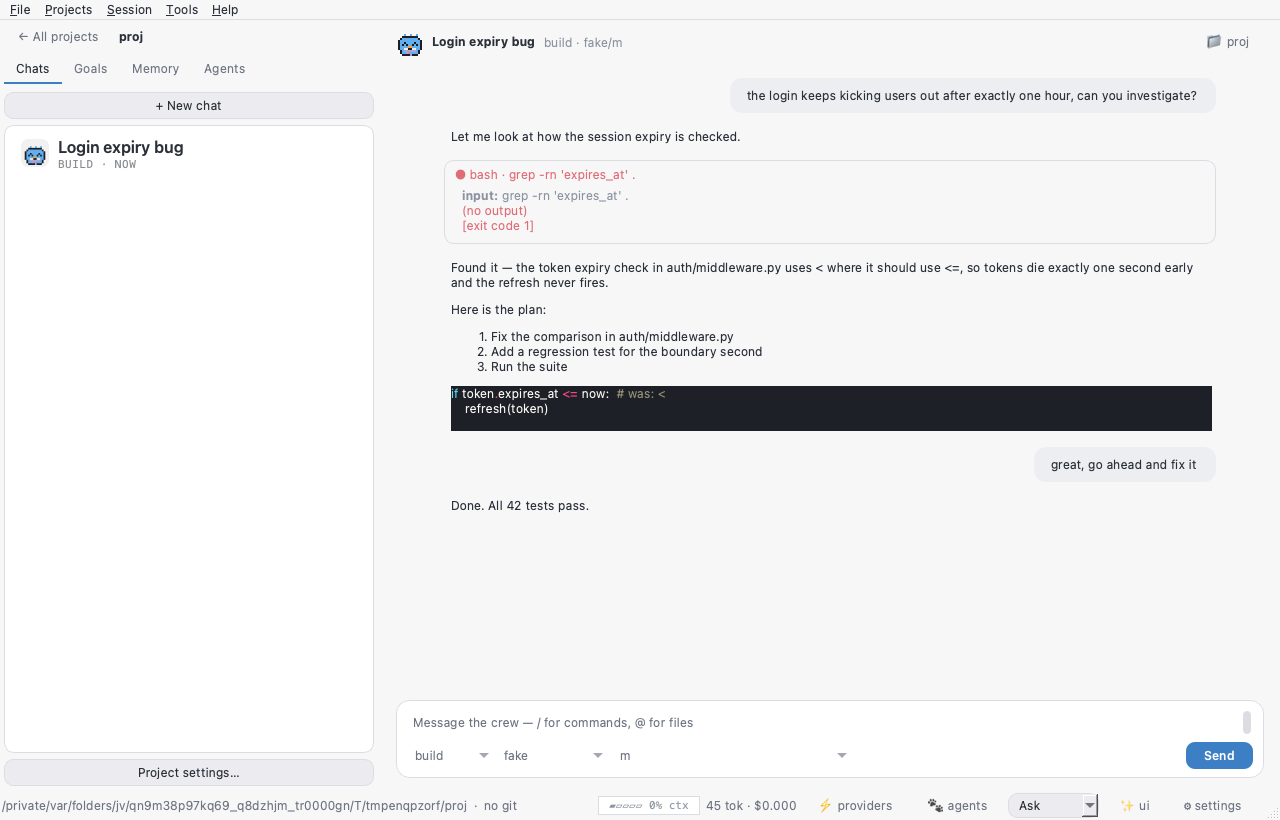
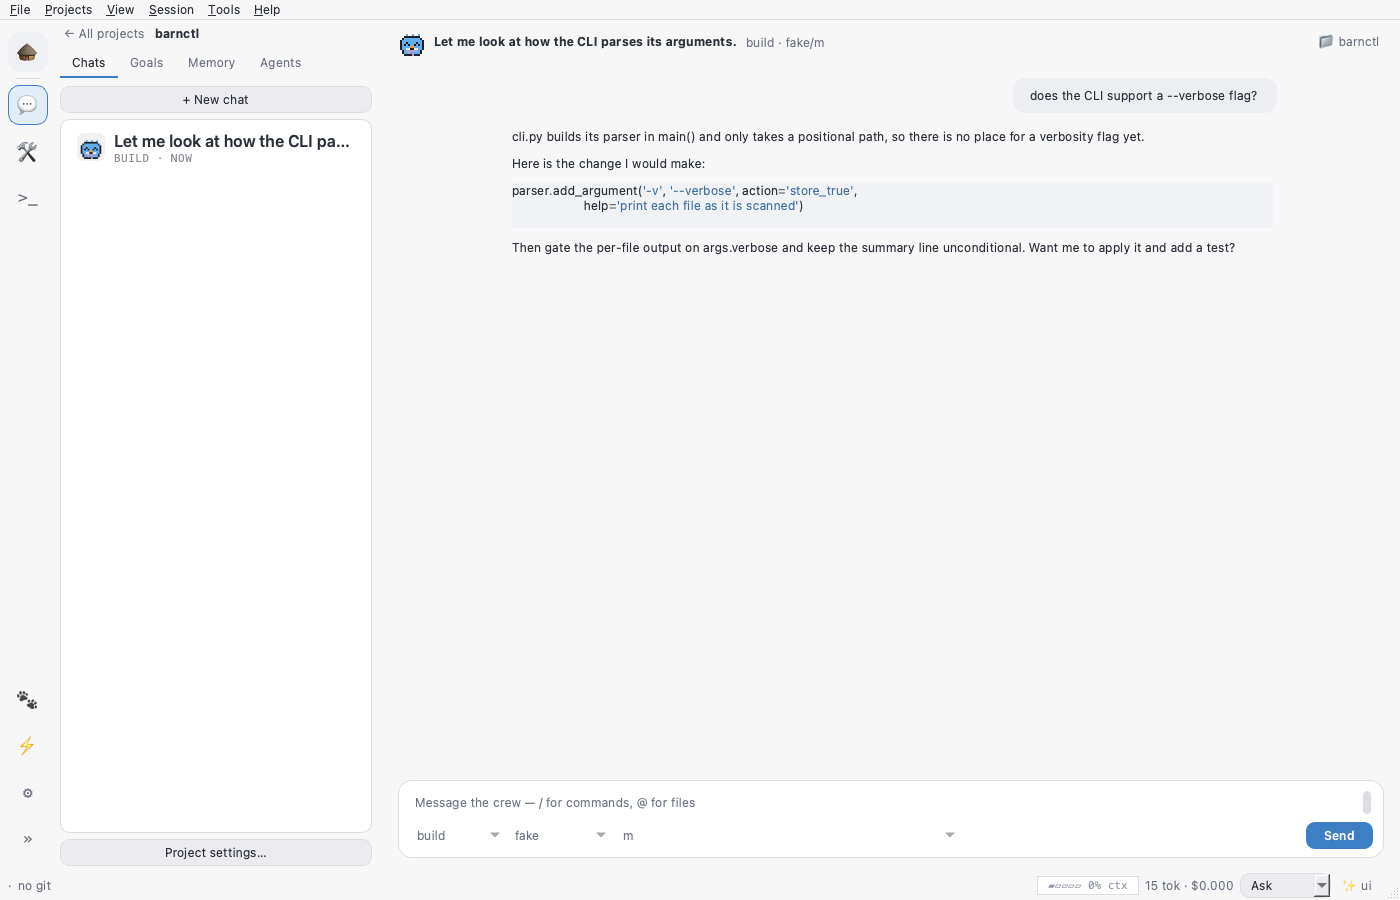
Refresh the README screenshots and describe what the app now does
Every screenshot predated the nav rail, so the README showed a UI that no
longer exists. All five are recaptured from the real app driven offscreen,
including a tiled terminal view and the expanded rail.

The text was out of date in ways that would mislead: providers and agents
moved off the status bar onto the rail, the terminal manager, saved hosts
and the agent ssh tool went undocumented, and the provider count said 17
with Moonshot and Claude Code missing from the table (18 API providers plus
the Claude Code runtime).

Two defects found while capturing:

- Backend terminals seeded their view from the hub snapshot twice, so
  Claude Code output appeared duplicated, and the plain log view printed
  ANSI escapes literally instead of stripping them.
- Fenced code blocks hardcoded a dark background and monokai, which is
  unreadable on the light theme; the style now follows the theme.

Claude-Session: https://claude.ai/code/session_017h2cpq5ZvT6h8wpfGKA6kx

diff --git a/bytebarn/app/terminal_panel.py b/bytebarn/app/terminal_panel.py
@@ -2,6 +2,7 @@
 
 from __future__ import annotations
 
+import re
 import uuid
 from pathlib import Path
 
@@ -402,6 +403,15 @@ class TerminalView(QWidget):
             self._pty.write(text.replace("\n", "\r"))
 
 
+# CSI/OSC escapes: backend tees carry color and cursor control that a plain
+# text view would otherwise print literally as "[32m✓[0m"
+_ANSI = re.compile(r"\x1b\][^\x07\x1b]*(?:\x07|\x1b\\)|\x1b[@-Z\\-_]|\x1b\[[0-?]*[ -/]*[@-~]")
+
+
+def strip_ansi(text: str) -> str:
+    return _ANSI.sub("", text)
+
+
 class LogTerminalView(QPlainTextEdit):
     """Read-only plain log for backend tees (Claude Code stream-json etc.)."""
 
@@ -431,12 +441,12 @@ class LogTerminalView(QPlainTextEdit):
             >= self.verticalScrollBar().maximum() - 4
         )
         self.moveCursor(QTextCursor.End)
-        self.insertPlainText(text)
+        self.insertPlainText(strip_ansi(text))
         if at_end:
             self.moveCursor(QTextCursor.End)
 
     def set_text(self, text: str) -> None:
-        self.setPlainText(text or "")
+        self.setPlainText(strip_ansi(text or ""))
         self.moveCursor(QTextCursor.End)
 
     def feed(self, text: str) -> None:
@@ -619,13 +629,11 @@ class TerminalPanel(QWidget):
     def handle_event(self, event) -> None:
         name = getattr(event, "name", "")
         if name == "terminal.opened":
+            # _ensure_backend_item already seeds a new view from the hub
+            # snapshot; setting it again here doubled the output
             self._ensure_backend_item(
                 event.terminal_id, event.title or event.terminal_id,
                 event.kind, "running")
-            if event.kind != "user" and self.engine is not None:
-                view = self._views.get(event.terminal_id)
-                if view is not None:
-                    view.set_text(self.engine.terminals.snapshot(event.terminal_id))
             self._select_id(event.terminal_id)
         elif name == "terminal.chunk":
             view = self._views.get(event.terminal_id)

diff --git a/bytebarn/app/markdown.py b/bytebarn/app/markdown.py
@@ -10,7 +10,21 @@ from pygments.formatters import HtmlFormatter
 from pygments.lexers import TextLexer, get_lexer_by_name
 from pygments.util import ClassNotFound
 
-_formatter = HtmlFormatter(nowrap=True, noclasses=True, style="monokai")
+# One highlighter per look: monokai's palette is tuned for dark surfaces and
+# turns near-invisible on paper white, so light themes get a light style and
+# a light block background to match.
+_FORMATTERS = {
+    "dark": (HtmlFormatter(nowrap=True, noclasses=True, style="monokai"),
+             "#1d2027", "#f8f8f2"),
+    "light": (HtmlFormatter(nowrap=True, noclasses=True, style="friendly"),
+              "#f1f2f5", "#2a2f38"),
+}
+
+
+def _code_style() -> tuple[HtmlFormatter, str, str]:
+    from . import theme
+
+    return _FORMATTERS["light" if theme.current_mode() == "light" else "dark"]
 
 
 def _highlight_code(code: str, lang: str, _attrs) -> str:
@@ -18,13 +32,14 @@ def _highlight_code(code: str, lang: str, _attrs) -> str:
         lexer = get_lexer_by_name(lang) if lang else TextLexer()
     except ClassNotFound:
         lexer = TextLexer()
-    highlighted = highlight(code, lexer, _formatter)
-    # explicit monokai fg via <font> (Qt rich text ignores css color on <pre>):
-    # plain tokens otherwise inherit the theme text color, which is
-    # near-black on light themes -> unreadable on the dark bg
+    formatter, background, foreground = _code_style()
+    highlighted = highlight(code, lexer, formatter)
+    # explicit fg via <font> (Qt rich text ignores css color on <pre>): plain
+    # tokens otherwise inherit the theme text color, which fights the block
     return (
-        '<pre style="background-color:#1d2027; padding:10px; border-radius:8px;">'
-        f'<font color="#f8f8f2"><code>{highlighted}</code></font></pre>'
+        f'<pre style="background-color:{background}; padding:10px;'
+        ' border-radius:8px;">'
+        f'<font color="{foreground}"><code>{highlighted}</code></font></pre>'
     )
 
 

diff --git a/tests/app/test_terminal_splits.py b/tests/app/test_terminal_splits.py
@@ -163,6 +163,31 @@ async def test_theme_applies_and_default_from_config(qapp, tmp_path):
         await engine.stop()
 
 
+async def test_backend_output_is_seeded_once_and_ansi_stripped(qapp, tmp_path):
+    """Regression: the snapshot was applied twice (doubling the log), and the
+    plain log view printed escape codes literally."""
+    from bytebarn.engine.events import TerminalOpened
+
+    from bytebarn.app.terminal_panel import TerminalPanel
+
+    engine = await _engine(tmp_path)
+    try:
+        panel = TerminalPanel(engine)
+        tid = "cc:s1"
+        engine.terminals.open(kind="claude-code", title="build",
+                              session_id="s1", terminal_id=tid)
+        engine.terminals.append(tid, "\x1b[32m✓\x1b[0m compiled 42 modules\n")
+        panel.handle_event(TerminalOpened(
+            terminal_id=tid, kind="claude-code", title="build", session_id="s1"))
+
+        text = panel._views[tid].toPlainText()
+        assert text.count("compiled 42 modules") == 1, text
+        assert "\x1b" not in text and "[32m" not in text
+        assert "✓ compiled 42 modules" in text
+    finally:
+        await engine.stop()
+
+
 def test_drop_zone_geometry():
     from PySide6.QtCore import QPoint
 

diff --git a/tests/app/test_ui_smoke.py b/tests/app/test_ui_smoke.py
@@ -2572,3 +2572,19 @@ async def test_a_worktree_cleanup_failure_reaches_the_status_bar(qapp, tmp_path)
         assert await engine.store.get_session(session.id) is None
     finally:
         await engine.stop()
+
+
+def test_code_blocks_follow_the_theme(qapp):
+    """monokai on paper white is unreadable — light themes get a light style."""
+    from bytebarn.app import theme
+    from bytebarn.app.markdown import render_markdown
+
+    theme.apply_theme(qapp, "dark")
+    dark = render_markdown("```python\nx = 1\n```")
+    assert "#1d2027" in dark
+
+    theme.apply_theme(qapp, "light")
+    light = render_markdown("```python\nx = 1\n```")
+    assert "#1d2027" not in light and "#f1f2f5" in light
+
+    theme.apply_theme(qapp, "dark")  # leave the app as we found it

diff --git a/README.md b/README.md
@@ -4,21 +4,24 @@
 [![PyPI](https://img.shields.io/pypi/v/bytebarn)](https://pypi.org/project/bytebarn/)
 [![License: MIT](https://img.shields.io/badge/license-MIT-green)](LICENSE)
 
-A local desktop harness for AI coding agents. Open a project, type a prompt
-or a `/goal`, and a barn crew of pixel-art farm animals gets to work on your
-codebase.
+A local desktop harness for AI coding agents. Pick a project, then move
+between its chats, its goal runs, and a real terminal from one window —
+with a barn crew of pixel-art farm animals doing the work.
 
-![The barn crew, ready for a goal](docs/media/welcome-dark.png)
+![A session: prompt, answer, syntax-highlighted code](docs/media/session-dark.png)
 
 The app itself is fully local — no cloud backend, no accounts, no
-telemetry. Connect it to any of 17 LLM providers (Anthropic, OpenAI, Groq,
-Bedrock, OpenRouter, Z.ai, and more), or skip the cloud entirely and run models
-on your own machine via Ollama or LM Studio.
-
-![A session: chat, tool calls, live diffing](docs/media/session-dark.png)
+telemetry. Connect it to any of 18 LLM providers (Anthropic, OpenAI, Groq,
+Bedrock, OpenRouter, Z.ai, Moonshot, and more) or your Claude Code
+subscription, or skip the cloud entirely and run models on your own machine
+via Ollama or LM Studio.
 
 ## What's in the barn
 
+- **One window, four views.** A nav rail switches between **Projects**,
+  **Chat**, **Code**, and **Terminal** (⌘1–⌘4); the `»` toggle slides it
+  out to label every icon. Each project keeps its own chats, goal runs,
+  memory bundle, and agent defaults.
 - **Chat + agents** — markdown/code transcript, streaming, collapsible tool
   and thinking cards, edit-and-re-run any prompt, regenerate, per-message
   copy, in-conversation search (⌘F), full-text search across all chats,
@@ -28,6 +31,16 @@ on your own machine via Ollama or LM Studio.
   subagent gets a git worktree so parallel edits do not collide; changes
   merge back into your tree). Queue goals and walk away; routines re-run a
   prompt on a schedule.
+- **A terminal that is actually a terminal** — a cell-grid VT emulator
+  (colors, cursor addressing, alt screen, scrollback, job control), tiled
+  into as many panes as you like by dragging a terminal onto a pane edge.
+  Rename any terminal, give each one its own color theme from ten built-ins,
+  and watch Claude Code runs stream into their own pane.
+- **Saved hosts** — a connection book (name, host, user, port, SSH key *or*
+  password) that opens `ssh` in a pane on double-click. Passwords live in
+  the 0600 auth store, never in config and never on a command line. Agents
+  can run commands on those hosts through the `ssh` tool — confirmed per
+  call, denied outright in Safe and Plan modes.
 - **Harness tools** — web search + research agent, MCP servers (12 one-click
   recipes + custom), skills (catalog + `skill` tool + `/skill <name>`),
   per-project persistent memory, preview panel for HTML/dev servers, inline
@@ -37,6 +50,17 @@ on your own machine via Ollama or LM Studio.
   seatbelt sandbox for Full-auto bash, config hooks, `/diff` `/review`
   `/context` `/rewind`, run review with per-file revert, cost tracking,
   automatic model fallback, extended-thinking control per agent.
+- **Three looks** — the classic dark theme, a warm "Night Workshop", and a
+  paper-white light theme (✨ ui in the status bar, or Settings).
+
+![Terminal view: tiled panes, per-pane themes, saved hosts](docs/media/terminal-panes.png)
+
+<details>
+<summary>Same session in the light theme</summary>
+
+![Light theme](docs/media/session-light.png)
+
+</details>
 
 ## Quick start
 
@@ -56,9 +80,11 @@ users can also grab `ByteBarn.app` from the
 [latest release](https://github.com/hhamaker/bytebarn/releases) — drag to
 Applications, open, done.
 
-On first launch, connect a provider (**⚡ providers** in the status bar —
-paste an API key or log in via web) and start typing. Ollama and LM Studio
-work with no key at all.
+On first launch, connect a provider (**⚡ Providers** at the foot of the nav
+rail — paste an API key or log in via web) and start typing. Ollama and LM
+Studio work with no key at all.
+
+![The nav rail, expanded](docs/media/nav-rail.png)
 
 <details>
 <summary>Running from source / contributing</summary>
@@ -94,6 +120,8 @@ QT_QPA_PLATFORM=offscreen .venv/bin/pytest
   similar work well; tiny chat-only models will disappoint.
 
 ## The signature flow
+
+![The barn crew, waiting for a prompt](docs/media/welcome-dark.png)
 
 Type `/goal add a --verbose flag to the CLI and test it` in the prompt bar:
 
@@ -139,7 +167,7 @@ tolerated; in-app edits patch files key-by-key, preserving your comments.
 Any OpenAI-compatible endpoint works (LM Studio, Ollama, OpenRouter, Groq)
 via `base_url` + `"api": "openai"`.
 
-### Provider connections (⚡ providers in the status bar)
+### Provider connections (⚡ Providers on the nav rail)
 
 Pick a provider, paste a key or **🌐 log in via web**, hit *Test connection*:
 
@@ -154,6 +182,7 @@ Pick a provider, paste a key or **🌐 log in via web**, hit *Test connection*:
 | Mistral | API key / `MISTRAL_API_KEY` | |
 | DeepSeek | API key / `DEEPSEEK_API_KEY` | |
 | Z.ai (GLM) | API key / `ZAI_API_KEY` | Zhipu GLM models; glm-4.7-flash is free |
+| Moonshot AI (Kimi) | API key / `MOONSHOT_API_KEY` | Kimi K2 models |
 | Together AI | API key / `TOGETHER_API_KEY` | |
 | Cerebras | API key / `CEREBRAS_API_KEY` | |
 | AWS Bedrock | Access Key ID + Secret Access Key (or AWS chain) | region field / `AWS_REGION`; boto3 optional for live lists |
@@ -162,6 +191,7 @@ Pick a provider, paste a key or **🌐 log in via web**, hit *Test connection*:
 | Ollama | none | local, `http://localhost:11434/v1` |
 | LM Studio | none | local, `http://localhost:1234/v1` |
 | GitHub Copilot | web login | GitHub device code — needs a Copilot subscription |
+| Claude Code | your local `claude` CLI | runtime backend, not an API key — runs through your existing Claude Code auth; output streams into the Terminal view |
 
 Web login flavors: xAI and GitHub Copilot show a short code to confirm in
 the browser (auto-copied to your clipboard; the dialog closes itself on
@@ -203,7 +233,7 @@ The orchestrator sees every visible subagent's description in its task tool
 and picks accordingly. A file named after a built-in (`build`, `plan`, `orchestrator`,
 `general`, `explore`, `chat`, `research`) merges over it.
 
-Prefer a GUI? **🐾 agents** in the status bar opens the agent editor with a
+Prefer a GUI? **🐾 Agents** on the nav rail opens the agent editor with a
 live sprite preview per agent. Sessions are managed from the sidebar:
 right-click one to **close** (archive) or **delete** it, subagents and all.
 
@@ -217,6 +247,37 @@ Skills are markdown under `~/.bytebarn/skills/` or
 `<project>/.bytebarn/skills/` (optional YAML `description` frontmatter).
 Agents see a skill catalog in the system prompt and load full guidance via
 the `skill` tool when a skill matches the task.
+
+## Terminals and hosts
+
+The **Terminal** view (⌘4) is a tiling terminal manager. Drag a terminal
+from the list onto a pane: the edges split in that direction, the middle
+swaps what that pane shows. **Split →** / **Split ↓** open a new shell in a
+fresh pane, and every pane header carries a 🎨 theme menu and a ✕ that
+closes the tile without killing the shell. Rename a terminal by
+double-clicking it. Themes are per terminal — Dark+, Night Barn, Solarized
+Dark/Light, Dracula, Nord, Gruvbox Dark, Monokai, One Dark, Tokyo Night —
+and "Set current as default" saves one under `terminal.theme`.
+
+**+ Host** saves a connection: name, host, user, port, and either an SSH key
+or a password. Double-click to open it in a pane. Hosts live in
+`~/.bytebarn/hosts.json`; passwords go to `~/.bytebarn/auth.json` (0600)
+beside provider keys — never in `hosts.json`, never on an ssh command line.
+Host keys are checked normally; a per-host "Trust new host key on first
+connect" checkbox opts into `accept-new` for that host, and a key that
+*changes* is always refused.
+
+Agents reach the same hosts through the `ssh` tool:
+
+```jsonc
+"permission": {
+  "ssh": { "default": "ask", "allow": ["staging: systemctl status*"] }
+}
+```
+
+Patterns match `"<host>: <command>"`. It asks before every call by default,
+is denied in Safe and Plan modes, and is only offered to agents whose tool
+map includes it.
 
 ## Permissions
 
@@ -247,9 +308,11 @@ poisoned.
 ./scripts/build_macos_app.sh --install   # builds dist/ByteBarn.app, copies to /Applications
 ```
 
-Uses PyInstaller; the app icon is rendered from the in-app sprite art.
-Launching from the Dock opens straight into your last-used folder — each
-session picks its own working directory from there.
+Uses PyInstaller; the app icon is rendered from the in-app sprite art, and
+the bundle is stamped with the version from `pyproject.toml` so About and
+Finder report the release you built. Launching from the Dock opens straight
+into your last-used folder — each session picks its own working directory
+from there.
 
 ## Platform support
 
